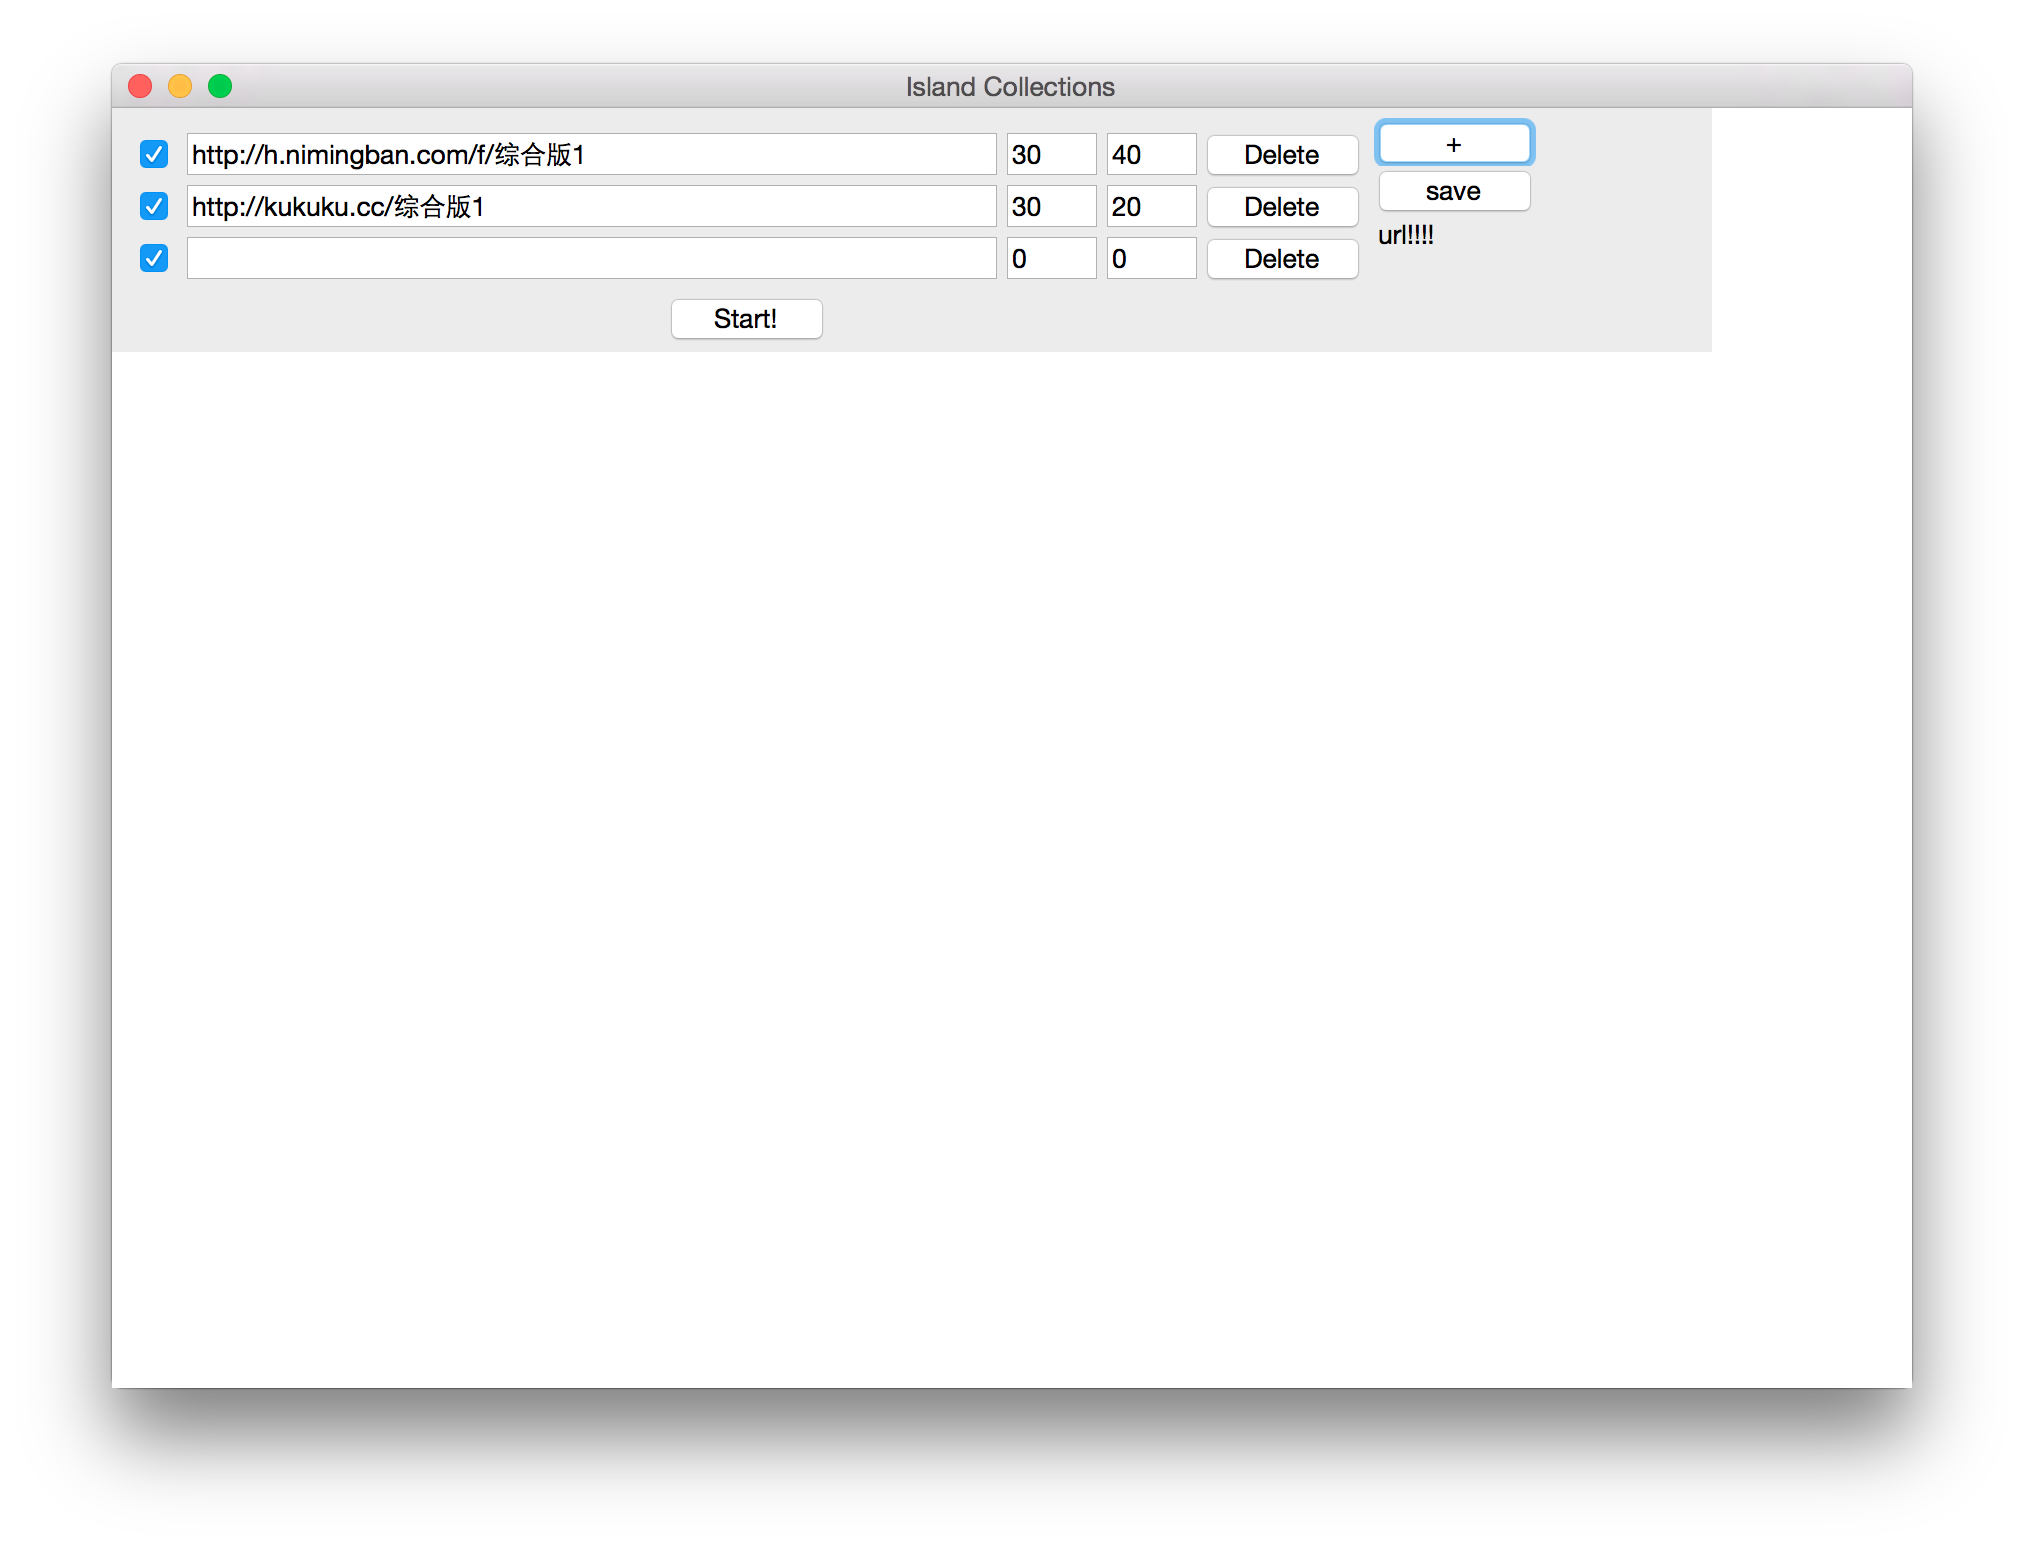
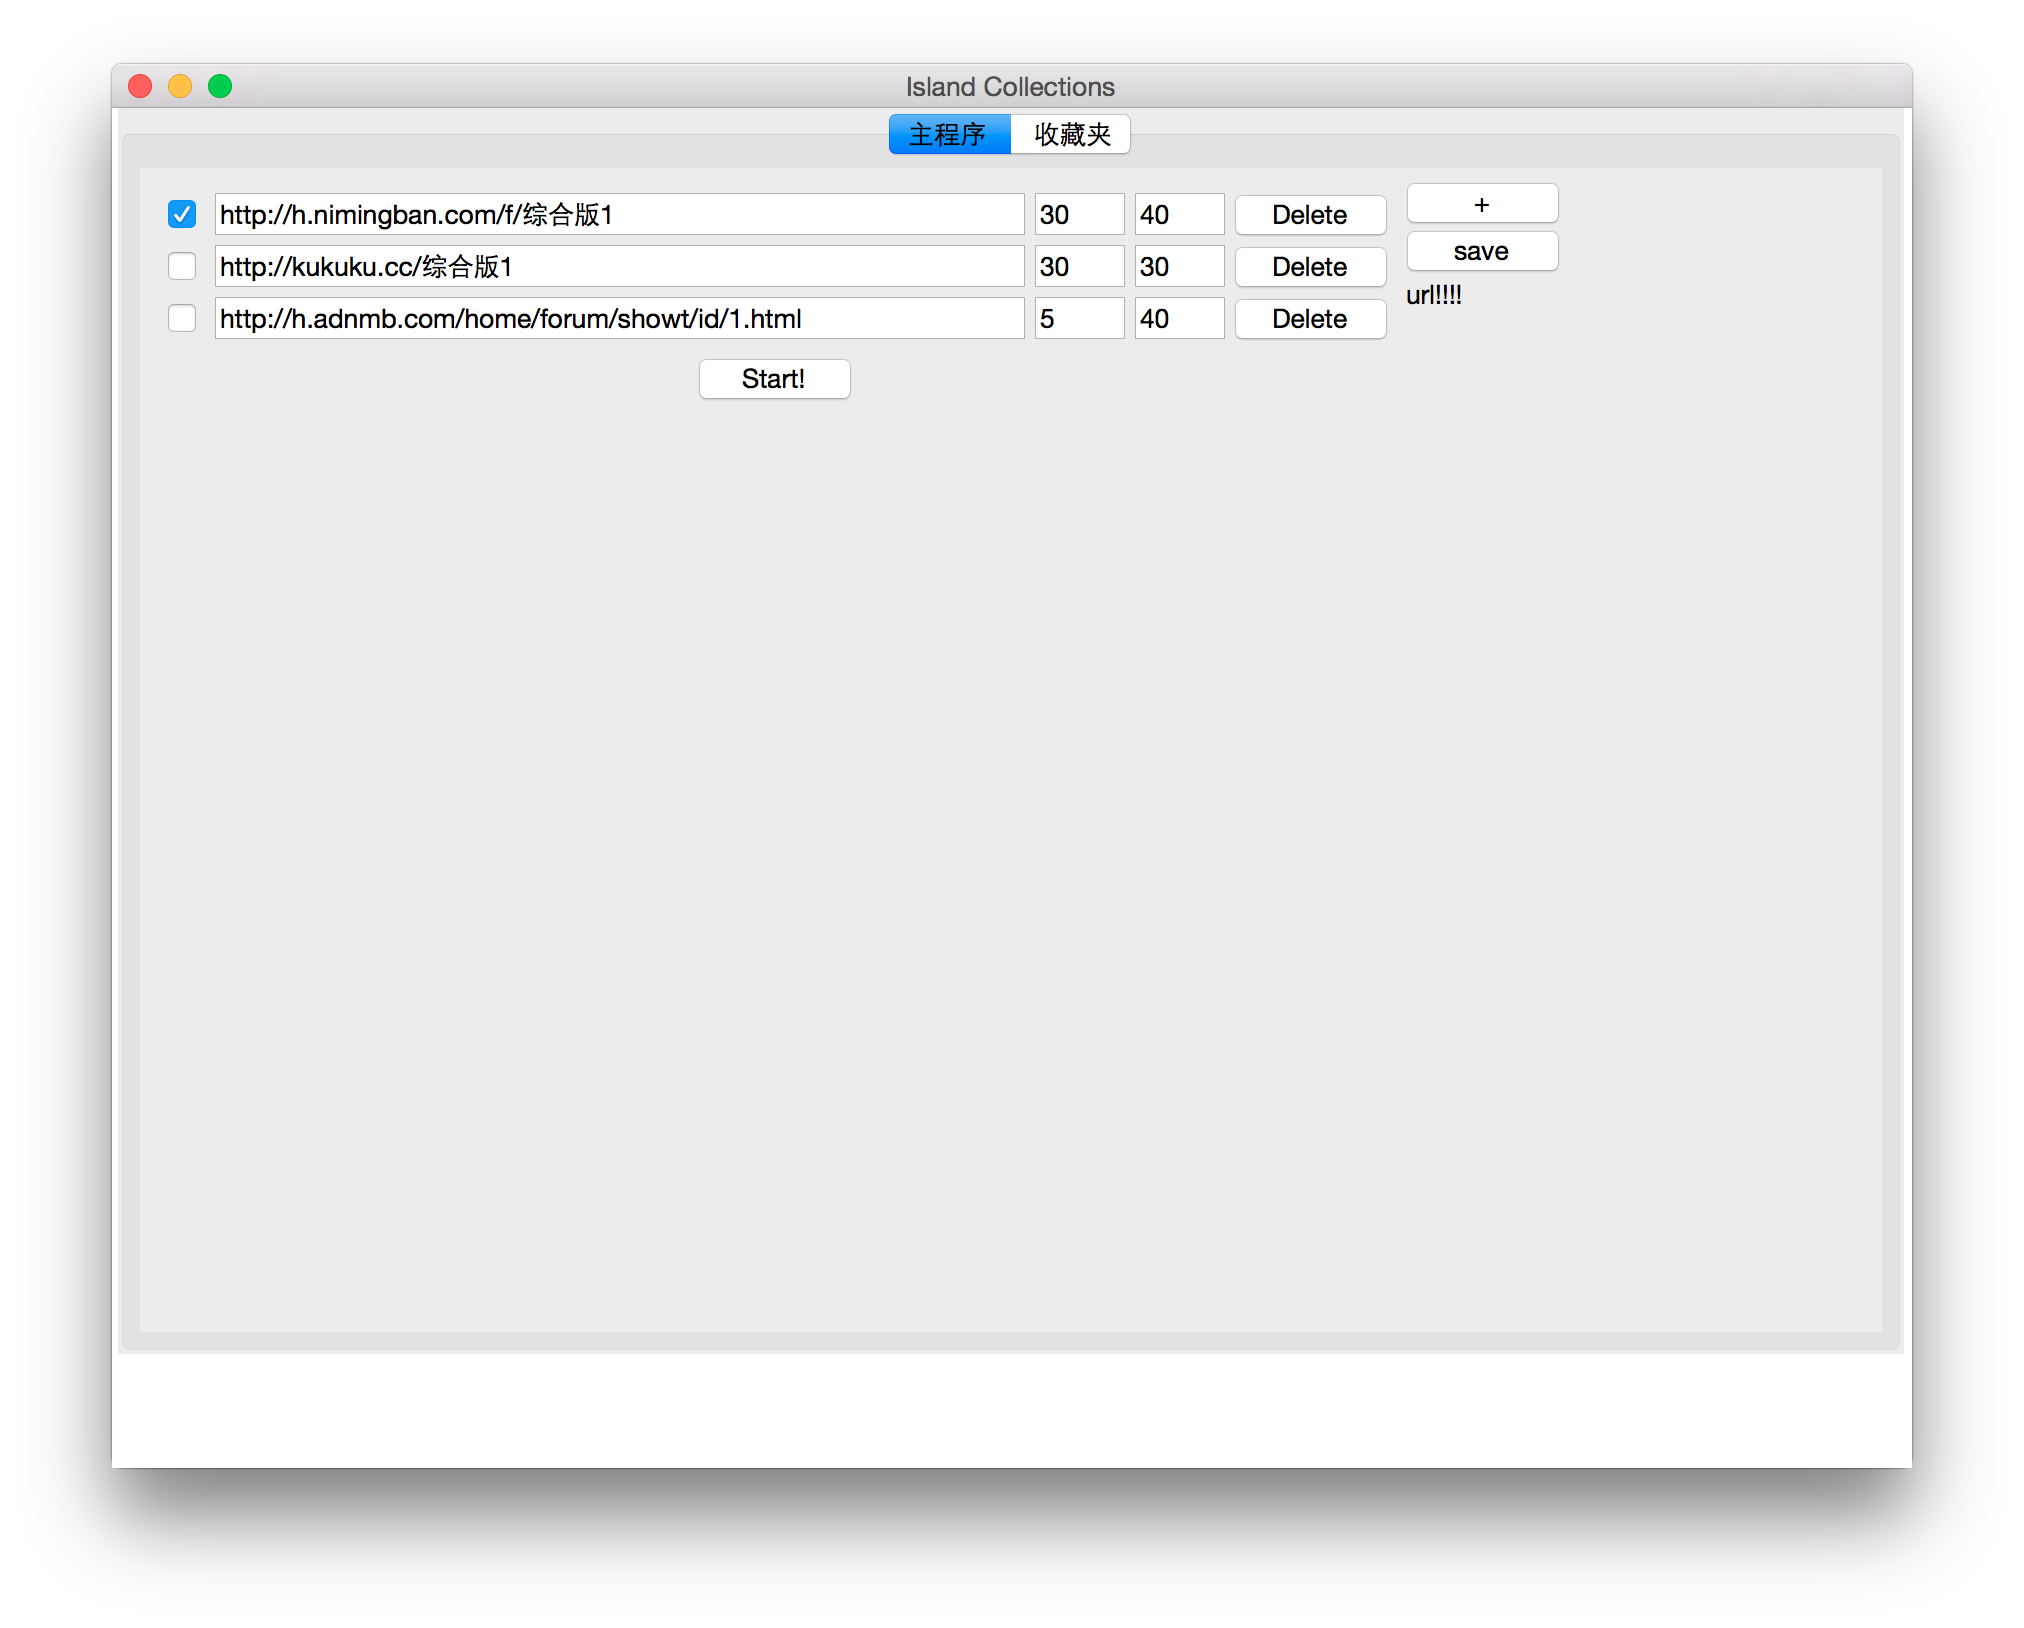
update readme and screenshot

Changed region(s): [[0.0623, 0.031, 0.9649, 0.8372], [0.0623, 0.8992, 0.9338, 0.9302]]

diff --git a/README.md b/README.md
@@ -1,6 +1,6 @@
 # IslandCollection
 
-搜索A岛， K岛等系列岛上一定人气的串  
+搜索A岛， K岛等系列岛上一定人气的串的图形化软件。
 
 目前支持:
 
@@ -8,19 +8,34 @@
 - A-养老岛(h.adnmb.com)
 - A-光驱岛（新旧都可以）
 
+计划中:
+k岛系列， 2cat系列。  
+
+计划功能:
+- proxy
+
+特性
+-------
+- 本地收藏夹  
+- 支持对结果进行过滤， 搜索  
+- 对多个岛的支持  
+- 自动过滤文本中多余的html标签  
+
+
 ScreenShot
 -----------
 ![](/screenshot/gui_1.png)
 
-![](/screenshot/gui_2.png)
+![](/screenshot/gui_filter.png)
 
-
+收藏夹  
+![](/screenshot/gui_bookmark.png)
 
 Requirements
 ---------------
 python >=3.3
 
-peewee >= 2.6.0
-requests >= 2.7.0
-Pillow >= 2.9.0
-beautifulsoup4 >= 4.4.0
+peewee >= 2.6.0  
+requests >= 2.7.0  
+Pillow >= 2.9.0  
+beautifulsoup4 >= 4.4.0  
